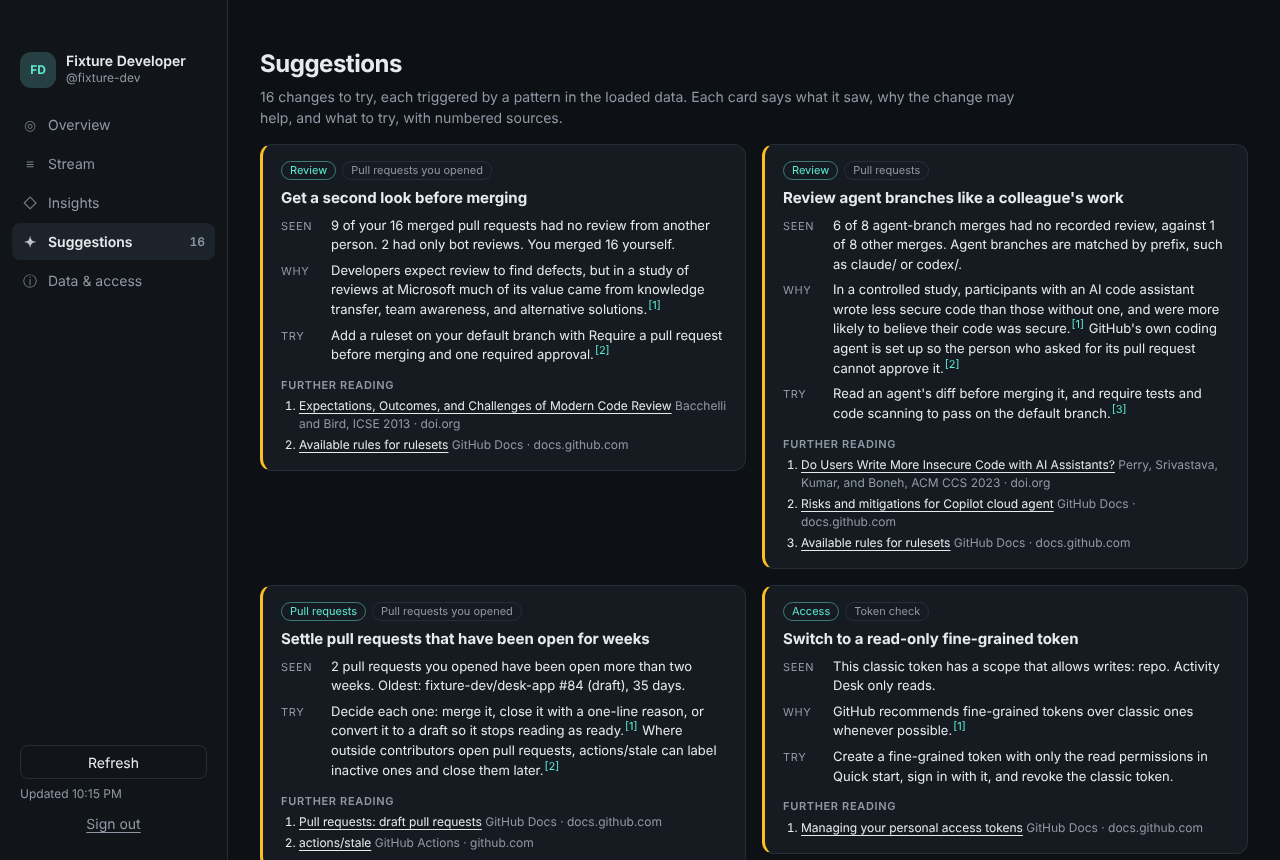
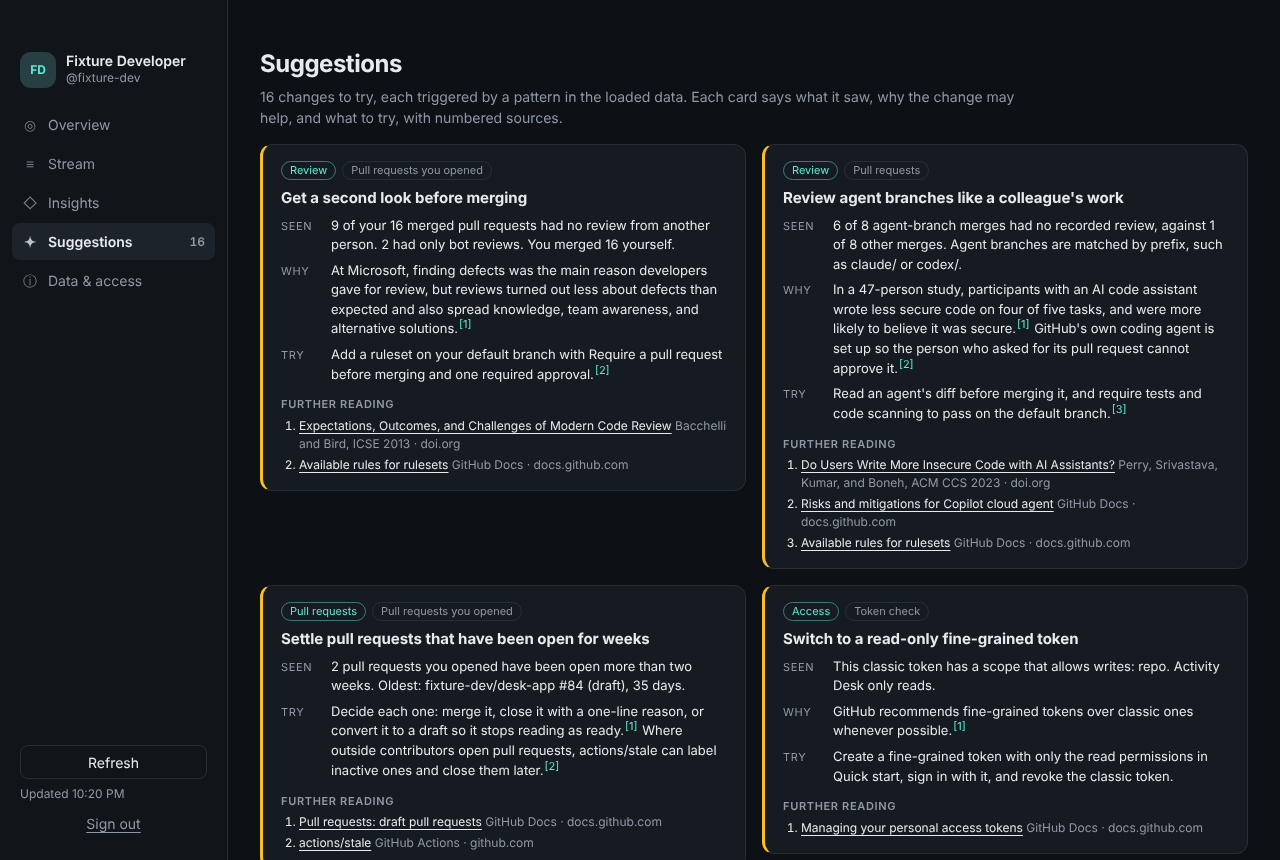
Match suggestion citations to what the studies report
Each study claim was checked against the paper's abstract or full text.

- Size and merge time (Kudrjavets et al.): across 100 projects the
  relation is weak, not merely weaker than advice suggests.
- AI assistants (Perry et al.): scope to 47 participants and four of
  five tasks.
- Code review (Bacchelli and Bird): defects were the main stated
  motivation, but reviews were less about defects than expected.
- Context switches (Meyer et al.): state the mixed result. Observed
  developers switched often and still felt productive.
- Interruptions (Mark et al.): interrupted people finished faster, not
  as fast, with no loss of quality.
- Resumption (Parnin and Rugaber): use the 10% within-a-minute figure.
  Note-taking is not in the abstract.
- Late-night commits: cite the 2014 Empirical Software Engineering
  extension, which covers X.org as well and whose abstract states the
  midnight-to-4am result, instead of the 2011 MSR paper.
- Reviewer recommendation (Mirsaeedi and Rigby): scope to the
  recommender study and its 28% figure.

Drop the unused Sadowski et al. entry, whose latency figures could not
be checked against the paper. Refresh the screenshot.

Claude-Session: https://claude.ai/code/session_016Cu6E8i9hozBBehxXgNgLg

Changed region(s): [[0.2188, 0.3023, 0.5625, 0.5744], [0.6562, 0.3326, 0.9688, 0.4535], [0.0625, 0.907, 0.0938, 0.9372]]

diff --git a/Activity Desk.app/Contents/Resources/app/insights.js b/Activity Desk.app/Contents/Resources/app/insights.js
@@ -475,7 +475,7 @@ function summarizeSessions(events, login) {
   const lifetimes = [];
   const owner = login ? `${String(login).toLowerCase()}/` : "";
   let ownRepo = 0;
-  let lateNight = 0; // midnight to 4am local time, the window Eyolfson et al. compared
+  let lateNight = 0; // midnight to 4am local time, the late-night window in Eyolfson et al.
 
   for (const { e, time } of timed) {
     const repo = repoName(e);
@@ -1003,13 +1003,12 @@ const READING = Object.freeze({
   "gh-social-preview": { title: "Customizing your repository's social media preview", by: "GitHub Docs", kind: "Docs", url: "https://docs.github.com/en/repositories/managing-your-repositorys-settings-and-features/customizing-your-repository/customizing-your-repositorys-social-media-preview" },
   "chaoss-first-response": { title: "Time to First Response", by: "CHAOSS", kind: "Metric", url: "https://chaoss.community/kb/metric-time-to-first-response/" },
   "bacchelli-2013": { title: "Expectations, Outcomes, and Challenges of Modern Code Review", by: "Bacchelli and Bird, ICSE 2013", kind: "Study", url: "https://doi.org/10.1109/ICSE.2013.6606617" },
-  "sadowski-2018": { title: "Modern Code Review: A Case Study at Google", by: "Sadowski et al., ICSE-SEIP 2018", kind: "Study", url: "https://doi.org/10.1145/3183519.3183525" },
   "kudrjavets-2022": { title: "Do Small Code Changes Merge Faster? A Multi-Language Empirical Investigation", by: "Kudrjavets, Nagappan, and Rastogi, MSR 2022", kind: "Study", url: "https://doi.org/10.1145/3524842.3528448" },
   "perry-2023": { title: "Do Users Write More Insecure Code with AI Assistants?", by: "Perry, Srivastava, Kumar, and Boneh, ACM CCS 2023", kind: "Study", url: "https://doi.org/10.1145/3576915.3623157" },
   "meyer-2014": { title: "Software Developers' Perceptions of Productivity", by: "Meyer, Fritz, Murphy, and Zimmermann, FSE 2014", kind: "Study", url: "https://doi.org/10.1145/2635868.2635892" },
   "mark-2008": { title: "The Cost of Interrupted Work: More Speed and Stress", by: "Mark, Gudith, and Klocke, CHI 2008", kind: "Study", url: "https://doi.org/10.1145/1357054.1357072" },
   "parnin-2011": { title: "Resumption strategies for interrupted programming tasks", by: "Parnin and Rugaber, Software Quality Journal 2011", kind: "Study", url: "https://doi.org/10.1007/s11219-010-9104-9" },
-  "eyolfson-2011": { title: "Do Time of Day and Developer Experience Affect Commit Bugginess?", by: "Eyolfson, Tan, and Lam, MSR 2011", kind: "Study", url: "https://doi.org/10.1145/1985441.1985464" },
+  "eyolfson-2014": { title: "Correlations between bugginess and time-based commit characteristics", by: "Eyolfson, Tan, and Lam, Empirical Software Engineering 2014", kind: "Study", url: "https://doi.org/10.1007/s10664-013-9245-0" },
   "mirsaeedi-2020": { title: "Mitigating Turnover with Code Review Recommendation", by: "Mirsaeedi and Rigby, ICSE 2020", kind: "Study", url: "https://doi.org/10.1145/3377811.3380335" },
 });
 
@@ -1052,7 +1051,7 @@ const SUGGESTION_RULES = [
       return {
         tone: "warn",
         seen: `${seen}${review.selfMerged ? ` You merged ${review.selfMerged} yourself.` : ""}`,
-        why: [["Developers expect review to find defects, but in a study of reviews at Microsoft much of its value came from knowledge transfer, team awareness, and alternative solutions.", "bacchelli-2013"]],
+        why: [["At Microsoft, finding defects was the main reason developers gave for review, but reviews turned out less about defects than expected and also spread knowledge, team awareness, and alternative solutions.", "bacchelli-2013"]],
         act: [["Add a ruleset on your default branch with Require a pull request before merging and one required approval.", "gh-rulesets"]],
       };
     },
@@ -1071,7 +1070,7 @@ const SUGGESTION_RULES = [
         tone: "warn",
         seen: `${a.unreviewed} of ${plural(a.count, "agent-branch merge")} had no recorded review${o.count ? `, against ${o.unreviewed} of ${o.count} other merges` : ""}. Agent branches are matched by prefix, such as claude/ or codex/.`,
         why: [
-          ["In a controlled study, participants with an AI code assistant wrote less secure code than those without one, and were more likely to believe their code was secure.", "perry-2023"],
+          ["In a 47-person study, participants with an AI code assistant wrote less secure code on four of five tasks, and were more likely to believe it was secure.", "perry-2023"],
           ["GitHub's own coding agent is set up so the person who asked for its pull request cannot approve it.", "gh-copilot-risks"],
         ],
         act: [["Read an agent's diff before merging it, and require tests and code scanning to pass on the default branch.", "gh-rulesets"]],
@@ -1105,7 +1104,7 @@ const SUGGESTION_RULES = [
       return {
         tone: "info",
         seen: `${name} reviewed ${plural(count, "pull request")} of yours, ${share(review.topReviewerShare)} of all reviewer visits.`,
-        why: [["Choosing reviewers to spread knowledge, not only by expertise, reduced the files at risk when a developer leaves.", "mirsaeedi-2020"]],
+        why: [["In a reviewer-recommendation study, picking reviewers by ownership alone concentrated knowledge in a few people; balancing expertise with spreading knowledge cut the files at risk from turnover by 28%.", "mirsaeedi-2020"]],
         act: [["Name a second owner for your busiest paths in CODEOWNERS, or, in an organization, have a team assign reviewers by round robin or load balance.", "gh-team-review"]],
       };
     },
@@ -1130,7 +1129,7 @@ const SUGGESTION_RULES = [
         seen,
         why: [
           ["Google's review guide says small changes are reviewed more quickly and more thoroughly, and are less likely to introduce bugs.", "google-small-cls"],
-          ["Across open-source projects the link between size and time to merge is weaker than that advice suggests, so your own numbers are the better guide.", "kudrjavets-2022"],
+          ["Across 100 open-source projects, though, pull request size was only weakly related to time to merge, so your own numbers are the better guide.", "kudrjavets-2022"],
         ],
         act: [["Split by concern: refactors, renames, and generated files in their own pull requests, and dependent changes stacked one on another."]],
       };
@@ -1229,8 +1228,8 @@ const SUGGESTION_RULES = [
         tone: "info",
         seen: `${sessions.multiRepo} of ${plural(sessions.multi, "work session")} crossed repositories. A session is a run of events with gaps under an hour.`,
         why: [
-          ["Developers rated days with few context switches and interruptions as their most productive.", "meyer-2014"],
-          ["In a lab study, interrupted people finished as fast but reported more stress, frustration, and time pressure.", "mark-2008"],
+          ["Developers describe productive days as finishing tasks without many interruptions or context switches, although when observed they switched often and still felt productive.", "meyer-2014"],
+          ["In a lab study, interrupted people finished faster with no loss of quality, but reported more stress, frustration, time pressure, and effort.", "mark-2008"],
         ],
         act: [["Work one repository per block, and batch cross-repository chores such as dependency bumps into one session."]],
       };
@@ -1246,7 +1245,7 @@ const SUGGESTION_RULES = [
       return {
         tone: "info",
         seen: `After an active day you were active again ${share(t.afterActive.rate)} of the time; after an idle day, ${share(t.afterIdle.rate)}. Restarting is the harder step.`,
-        why: [["Programmers resuming interrupted work rarely started editing right away, and relied on notes and other cues to rebuild context.", "parnin-2011"]],
+        why: [["Across 10,000 recorded sessions, programmers resumed editing within a minute of an interruption only 10% of the time, and used several strategies to rebuild context.", "parnin-2011"]],
         act: [["Before you stop, write the next concrete step in the issue or pull request, or leave a failing test, so the first move back is obvious."]],
       };
     },
@@ -1261,7 +1260,7 @@ const SUGGESTION_RULES = [
       return {
         tone: "info",
         seen: `${share(sessions.lateNight / sessions.timed)} of loaded events (${sessions.lateNight.toLocaleString()}) happened between midnight and 4am, local time.`,
-        why: [["In the Linux kernel and PostgreSQL histories, commits made between midnight and 4am were more likely to introduce bugs.", "eyolfson-2011"]],
+        why: [["In the Linux kernel, PostgreSQL, and X.org server histories, commits made between midnight and 4am were significantly buggier.", "eyolfson-2014"]],
         act: [["Open late-night work as a draft and read the diff the next day before merging."]],
       };
     },

diff --git a/docs/user-guide.md b/docs/user-guide.md
@@ -94,7 +94,7 @@ A suggestion appears only when its sample is large enough. **What was checked** 
 | Answer replies waiting on your threads | On 2 or more open issues or pull requests you opened, the latest loaded comment is from another person and is 2 or more days old. Bots are left out. | None. The suggestion rests on your data. |
 | Give each repository its own block of time | Half or more of 4 or more work sessions with several events crossed repositories. | Meyer et al., FSE 2014; Mark et al., CHI 2008 |
 | Leave yourself a next step before a break | An active day is followed by another active day at least 30 points more often than an idle day is. | Parnin and Rugaber, Software Quality Journal 2011 |
-| Review late-night changes the next day | At least 15% of 20 or more loaded events, and at least 5, happened between midnight and 4am local time. | Eyolfson et al., MSR 2011 |
+| Review late-night changes the next day | At least 15% of 20 or more loaded events, and at least 5, happened between midnight and 4am local time. | Eyolfson et al., Empirical Software Engineering 2014 |
 | Get Actions notifications only for failures | At least 40% of 10 or more unread notifications are routine CI updates. Needs a classic token with `notifications`. | GitHub Docs on Actions notifications |
 | Use labels instead of title prefixes | 3 or more issues you opened in the loaded events start with a bracketed tag such as `[bug]`. | GitHub Docs on filtering and issue forms |
 | Make the README's first screen do the work | A repository you own had 20 or more unique visitors in 14 days and no new stars, by star dates. | GitHub Docs on READMEs, topics, and social previews |
